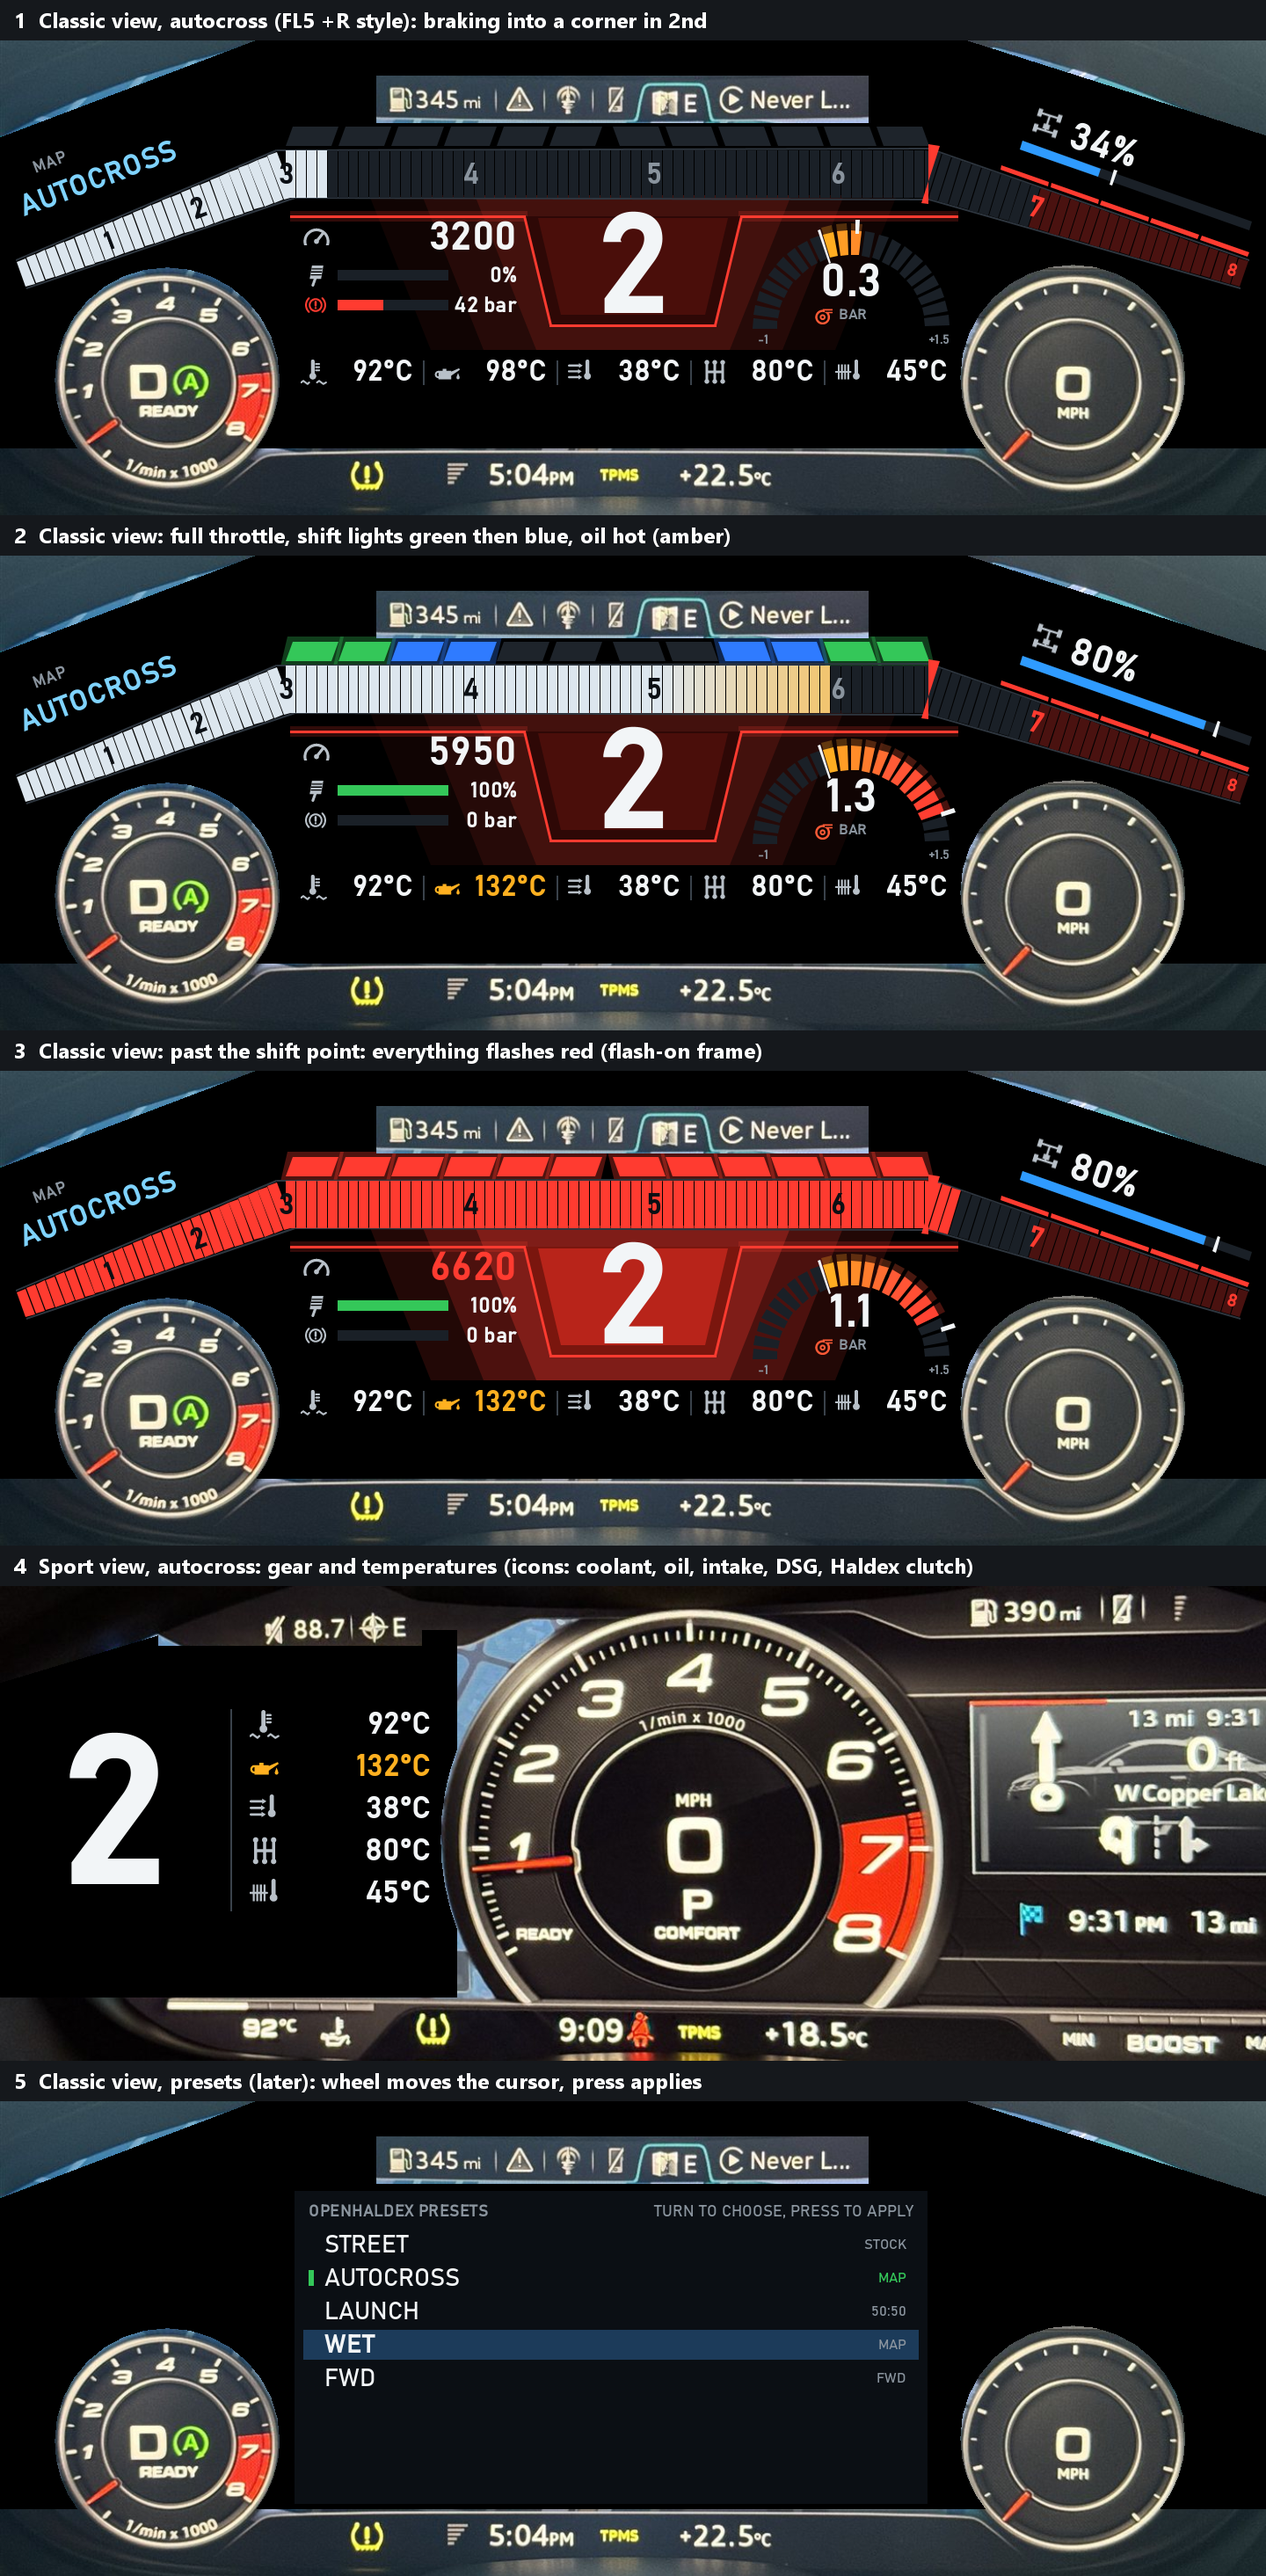
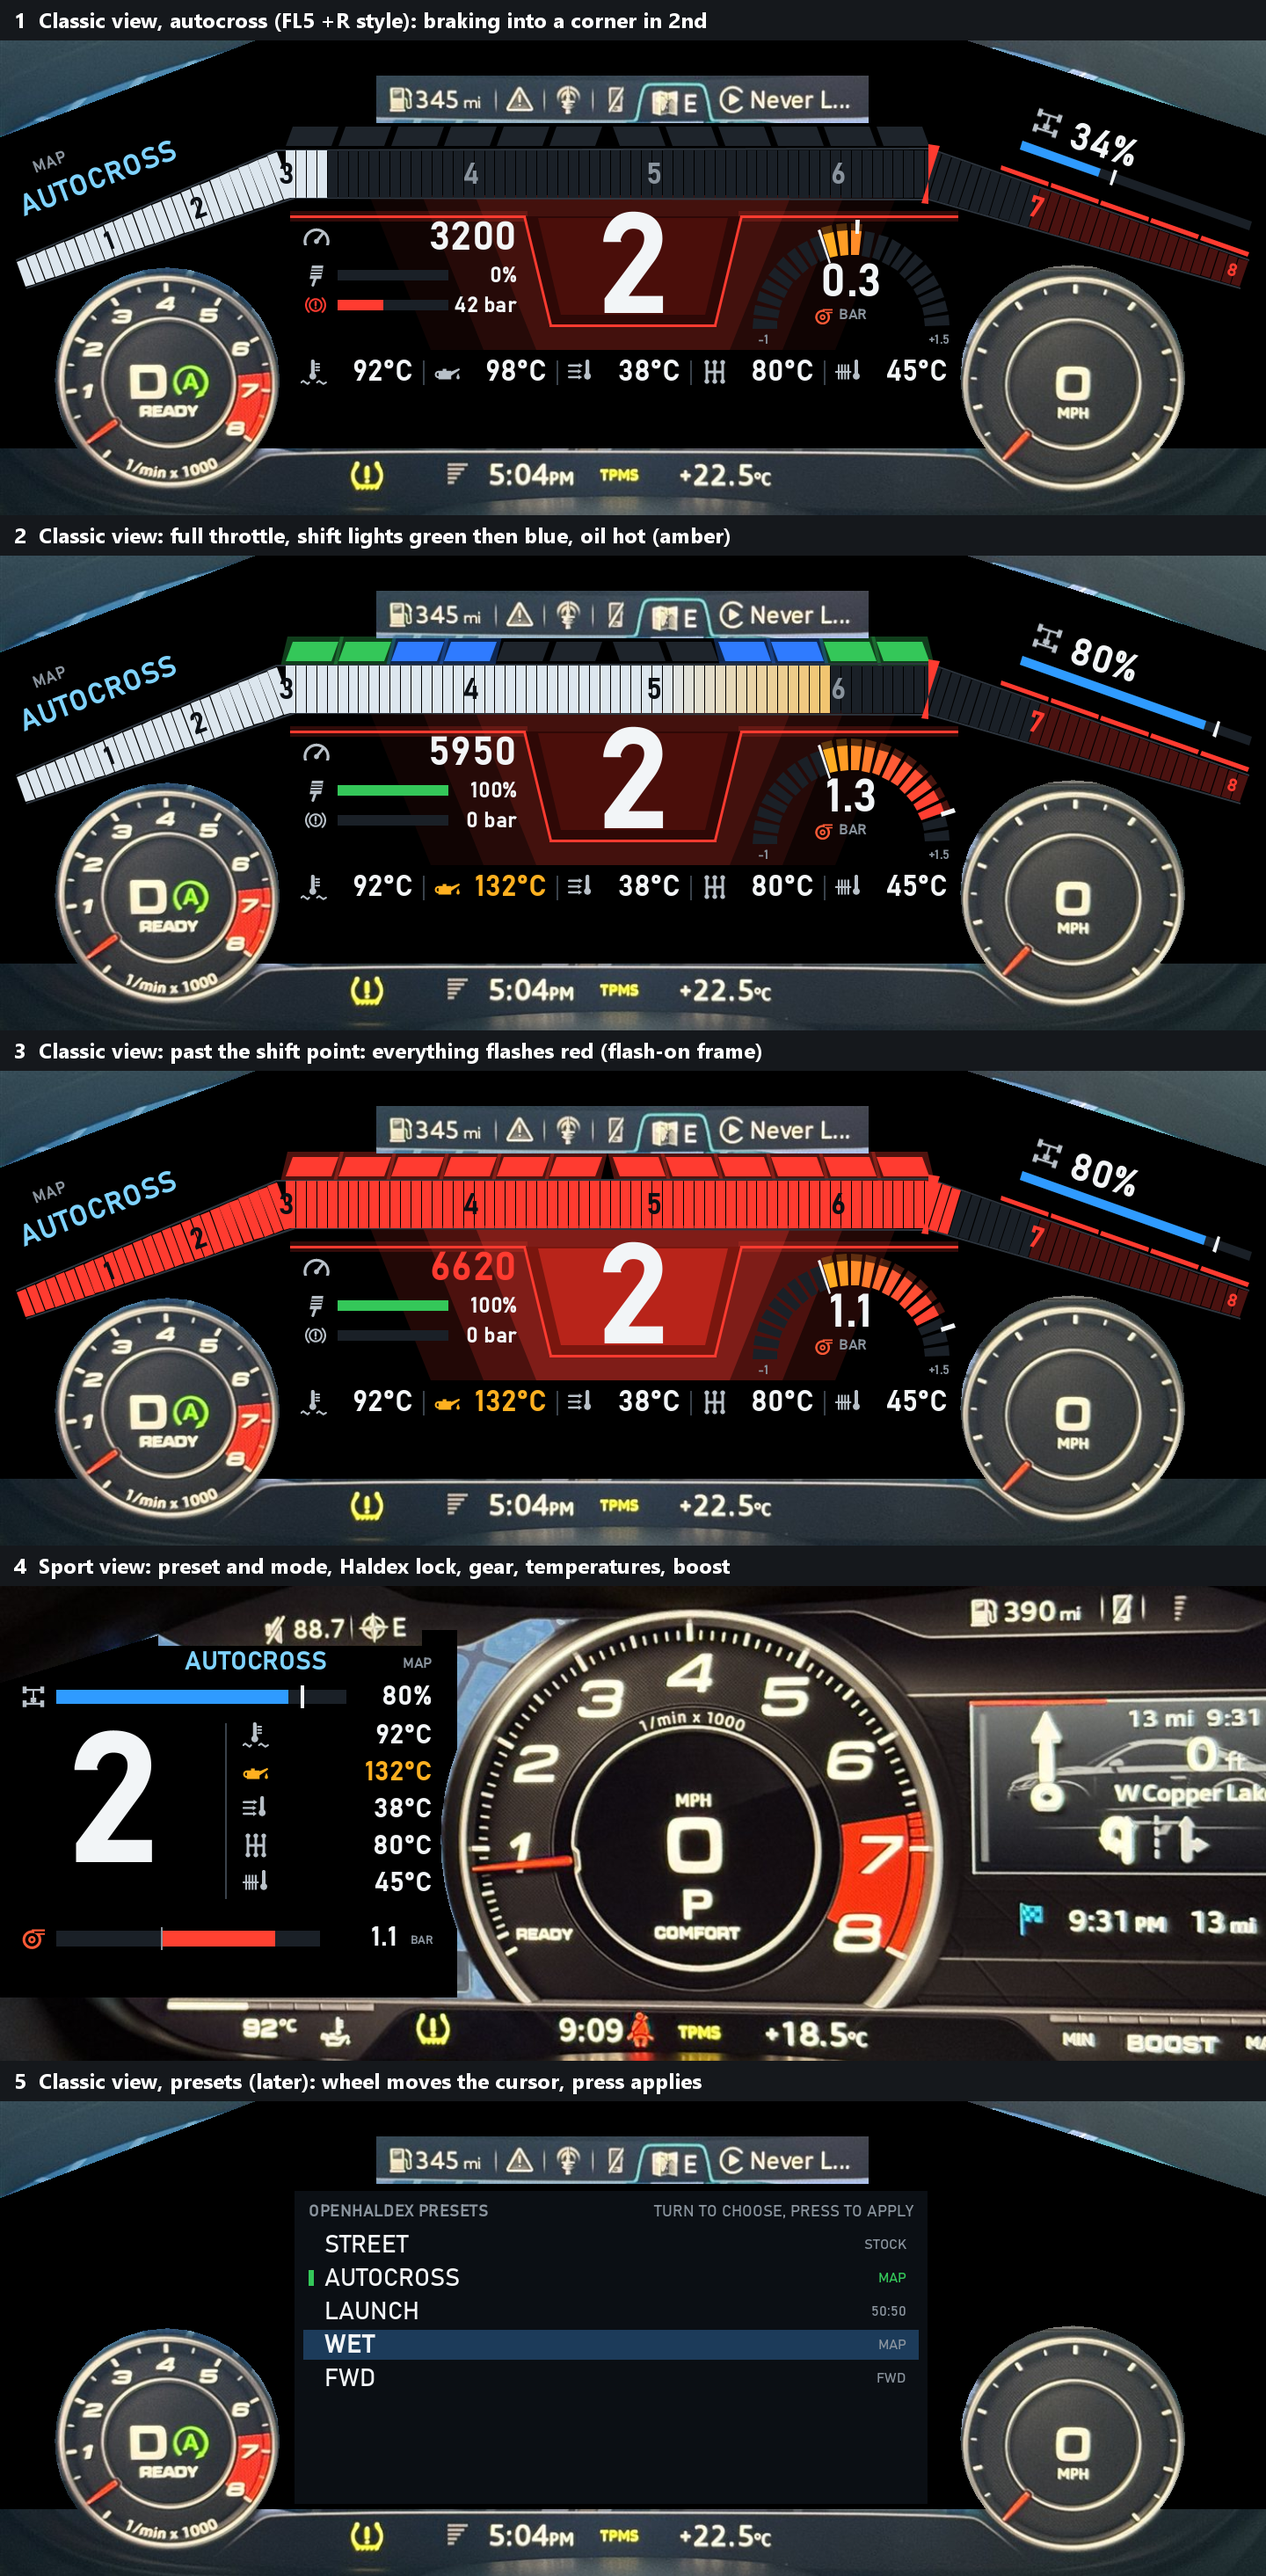
Telemetry: Sport view gets preset and mode, Haldex lock strip and boost strip

diff --git a/ports/tt-8s-mu1462/hmi/src/local/tt/TeleLayout.java b/ports/tt-8s-mu1462/hmi/src/local/tt/TeleLayout.java
@@ -529,17 +529,46 @@ public final class TeleLayout {
 
     private void liveSmall() {
         // Only the map area left of the big rev counter shows: x 0..520, below a diagonal from
-        // (0,110) to (200,50), above y 440. Gear and engine temperatures.
+        // (0,110) to (200,50) and the stock status line, above y 440. From the top: preset and mode,
+        // a Haldex lock strip, the gear with the temperatures beside it, a boost strip.
         int rpm = ok(CH_RPM) ? r(val[CH_RPM]) : 0;
         boolean blink = (now / 100) % 2 == 0;
         boolean over = link && rpm >= shiftRpm;
         boolean limit = link && rpm >= limitRpm;
+        int vc = link ? WHITE : GREY;
+        int x0 = 24;
+        int x1 = 492;
+
+        text(210, 72, 28, true, LEFT, link ? PRESET : GREY, presetName(), true);
+        text(x1, 80, 16, true, RIGHT, GREY, presetMode(), true);
+        boolean slow = link && rateHz >= 0 && rateHz < 10;
+        icon(170, 76, 24, TeleIcons.WIFI, AMBER, !link || slow);
+
+        // Haldex lock: icon, strip with the target tick, percent.
+        int act = ok(CH_HX_ACTUAL) ? clamp(r(val[CH_HX_ACTUAL]), 0, 100) : 0;
+        int tgt = ok(CH_HX_TARGET) ? clamp(r(val[CH_HX_TARGET]), 0, 100) : 0;
+        icon(x0, 112, 28, TeleIcons.AWD, ICONC, true);
+        bar(x0 + 40, 118, 330, 16, act, 0, link ? HALDEX : GREY, -1);
+        box(x0 + 40 + 330 * tgt / 100 - 2, 113, 4, 26, WHITE, ok(CH_HX_TARGET));
+        text(x1, 110, 30, true, RIGHT, vc, ok(CH_HX_ACTUAL) ? percent(act) : "-", true);
+
+        // Gear, red past the shift point, flashing at the limiter; temperatures beside it.
         int gc = !link ? GREY : limit ? (blink ? RED : WHITE) : over ? RED : WHITE;
-        text(130, 150, 230, true, CENTER, gc, gear(), true);
-        text(130, 392, 26, true, CENTER, AMBER, "NO LINK", !link);
-        box(262, 140, 2, 230, LINE, true);
+        text(128, 150, 200, true, CENTER, gc, gear(), true);
+        text(128, 336, 24, true, CENTER, AMBER, "NO LINK", !link);
+        box(256, 156, 2, 200, LINE, true);
         for (int t = 0; t < T_CH.length; t++)
-            tempCell(t, 284, 490, 140 + t * 48, 34, 34, rpm);
+            tempCell(t, 276, x1, 154 + t * 42, 30, 30, rpm);
+
+        // Boost: icon, strip from vacuum to boost with zero marked, value in bar.
+        int kpa = ok(CH_BOOST) ? r(val[CH_BOOST]) : 0;
+        boolean boosting = link && kpa > 0;
+        int zero = (0 - BOOST_MIN) * 100 / (BOOST_MAX - BOOST_MIN);
+        int pos = clamp((kpa - BOOST_MIN) * 100 / (BOOST_MAX - BOOST_MIN), 0, 100);
+        icon(x0, 386, 28, TeleIcons.TURBO, boosting ? BOOST_FILL : ICONC, true);
+        bar(x0 + 40, 392, 300, 18, pos, zero, !link ? GREY : kpa >= 0 ? boostColour(kpa) : VAC_FILL, zero);
+        text(x1 - 40, 384, 30, true, RIGHT, boosting ? WHITE : vc, ok(CH_BOOST) ? boost(kpa) : "-", true);
+        text(x1, 396, 13, true, RIGHT, GREY, boostPsi ? "PSI" : "BAR", true);
     }
 
     /** One temperature: icon at x0, value right-aligned at x1, coloured by level. */

diff --git a/ports/tt-8s-mu1462/gauges/tools/TelePreview.java b/ports/tt-8s-mu1462/gauges/tools/TelePreview.java
@@ -41,7 +41,7 @@ public class TelePreview {
             "1  Classic view, autocross (FL5 +R style): braking into a corner in 2nd",
             "2  Classic view: full throttle, shift lights green then blue, oil hot (amber)",
             "3  Classic view: past the shift point: everything flashes red (flash-on frame)",
-            "4  Sport view, autocross: gear and temperatures (icons: coolant, oil, intake, DSG, Haldex clutch)",
+            "4  Sport view: preset and mode, Haldex lock, gear, temperatures, boost",
             "5  Classic view, presets (later): wheel moves the cursor, press applies"};
         BufferedImage out = new BufferedImage(1440, caps.length * (540 + CAP), BufferedImage.TYPE_INT_RGB);
         Graphics2D g = out.createGraphics();

diff --git a/ports/tt-8s-mu1462/wiki/Telemetry.md b/ports/tt-8s-mu1462/wiki/Telemetry.md
@@ -220,7 +220,10 @@ wsl -d Ubuntu-24.04 -u root -- sh -c 'cd /mnt/c/.../gauges/headunit && docker ru
       calibrated degrees vs radians or the sign); if it does not work they fall back to level.
     - Not on the screen: speed (the stock speedometer shows it), engine torque (not sent), G-meter,
       stopwatch.
-  - Sport view: gear and the five temperatures with icons, in the map area left of the rev counter.
+  - Sport view, in the map area left of the rev counter (top to bottom): the preset with its mode
+    (and the Wi-Fi warning when the link is slow or lost), a Haldex lock strip with the target tick
+    and percent, the big gear with the five temperatures beside it, and a boost strip from -1 to
+    +1.5 bar with zero marked and the value.
   - Defaults (user, 2026-11-23): shift 6500, limiter 6800, temperatures in C.
   - Presets page (kept from the first draft, for later): a panel with the catalog, green mark on the
     active preset, cursor row.
